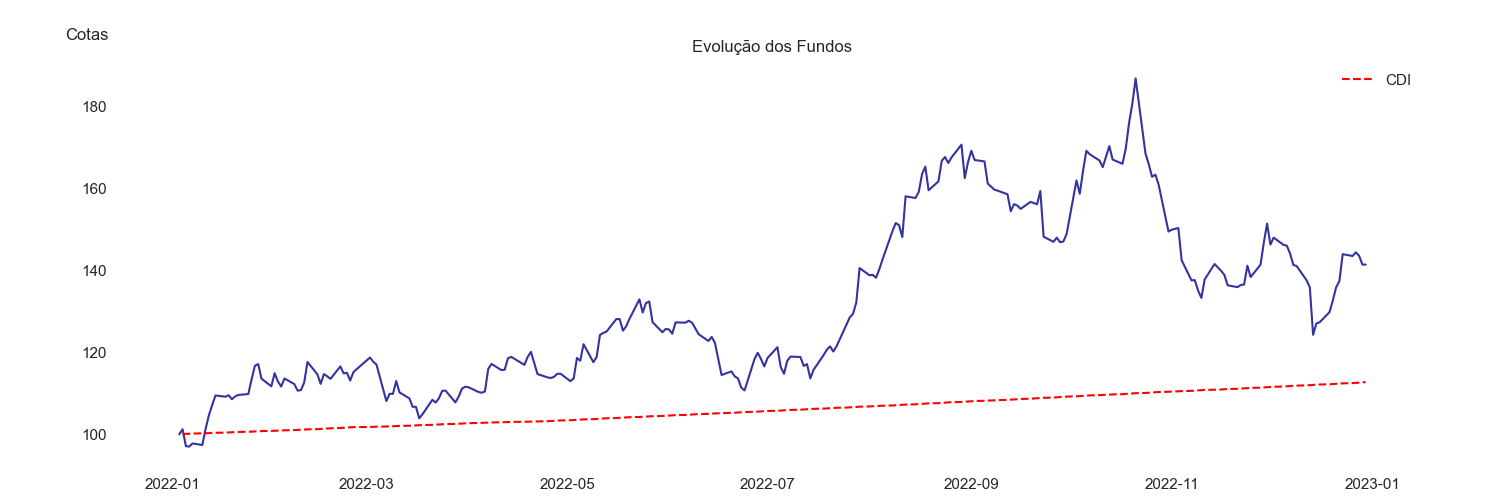
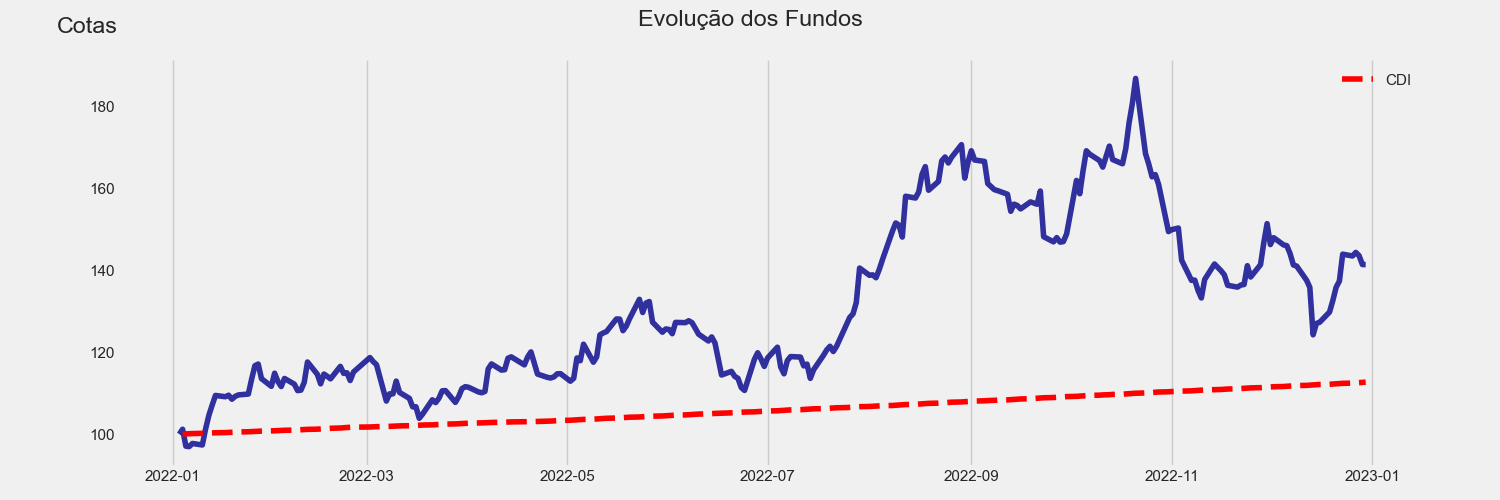
atualiza README

diff --git a/README.md b/README.md
@@ -180,7 +180,7 @@ data = comp.plotar_evolucao(
                 color="darkblue",
                 alpha=0.8
                 )
-plt.title("Evolução dos Fundos")
+plt.suptitle("Evolução dos Fundos")
 plt.plot((1+df_benchmarks[['Retorno Acumulado CDI']].dropna().fillna(0))*100, label="CDI", color='red', linestyle='--')
 plt.legend(frameon=False, loc="upper right")
 plt.show()
@@ -204,7 +204,7 @@ data = comp.plotar_evolucao(
                             posicao_texto_maximo=(-100, 35),
                             posicao_texto_minimo=(-100, 10),
                             )
-plt.title("Evolução dos Fundos que contenham Bradesco no nome")
+plt.suptitle("Evolução dos Fundos que contenham Bradesco no nome")
 plt.plot((1+ibov[['Retorno Acumulado IBOV']].fillna(0))*100, label="Ibovespa", color="red", lw=3)
 plt.legend(frameon=False, loc="upper center")
 plt.show()
